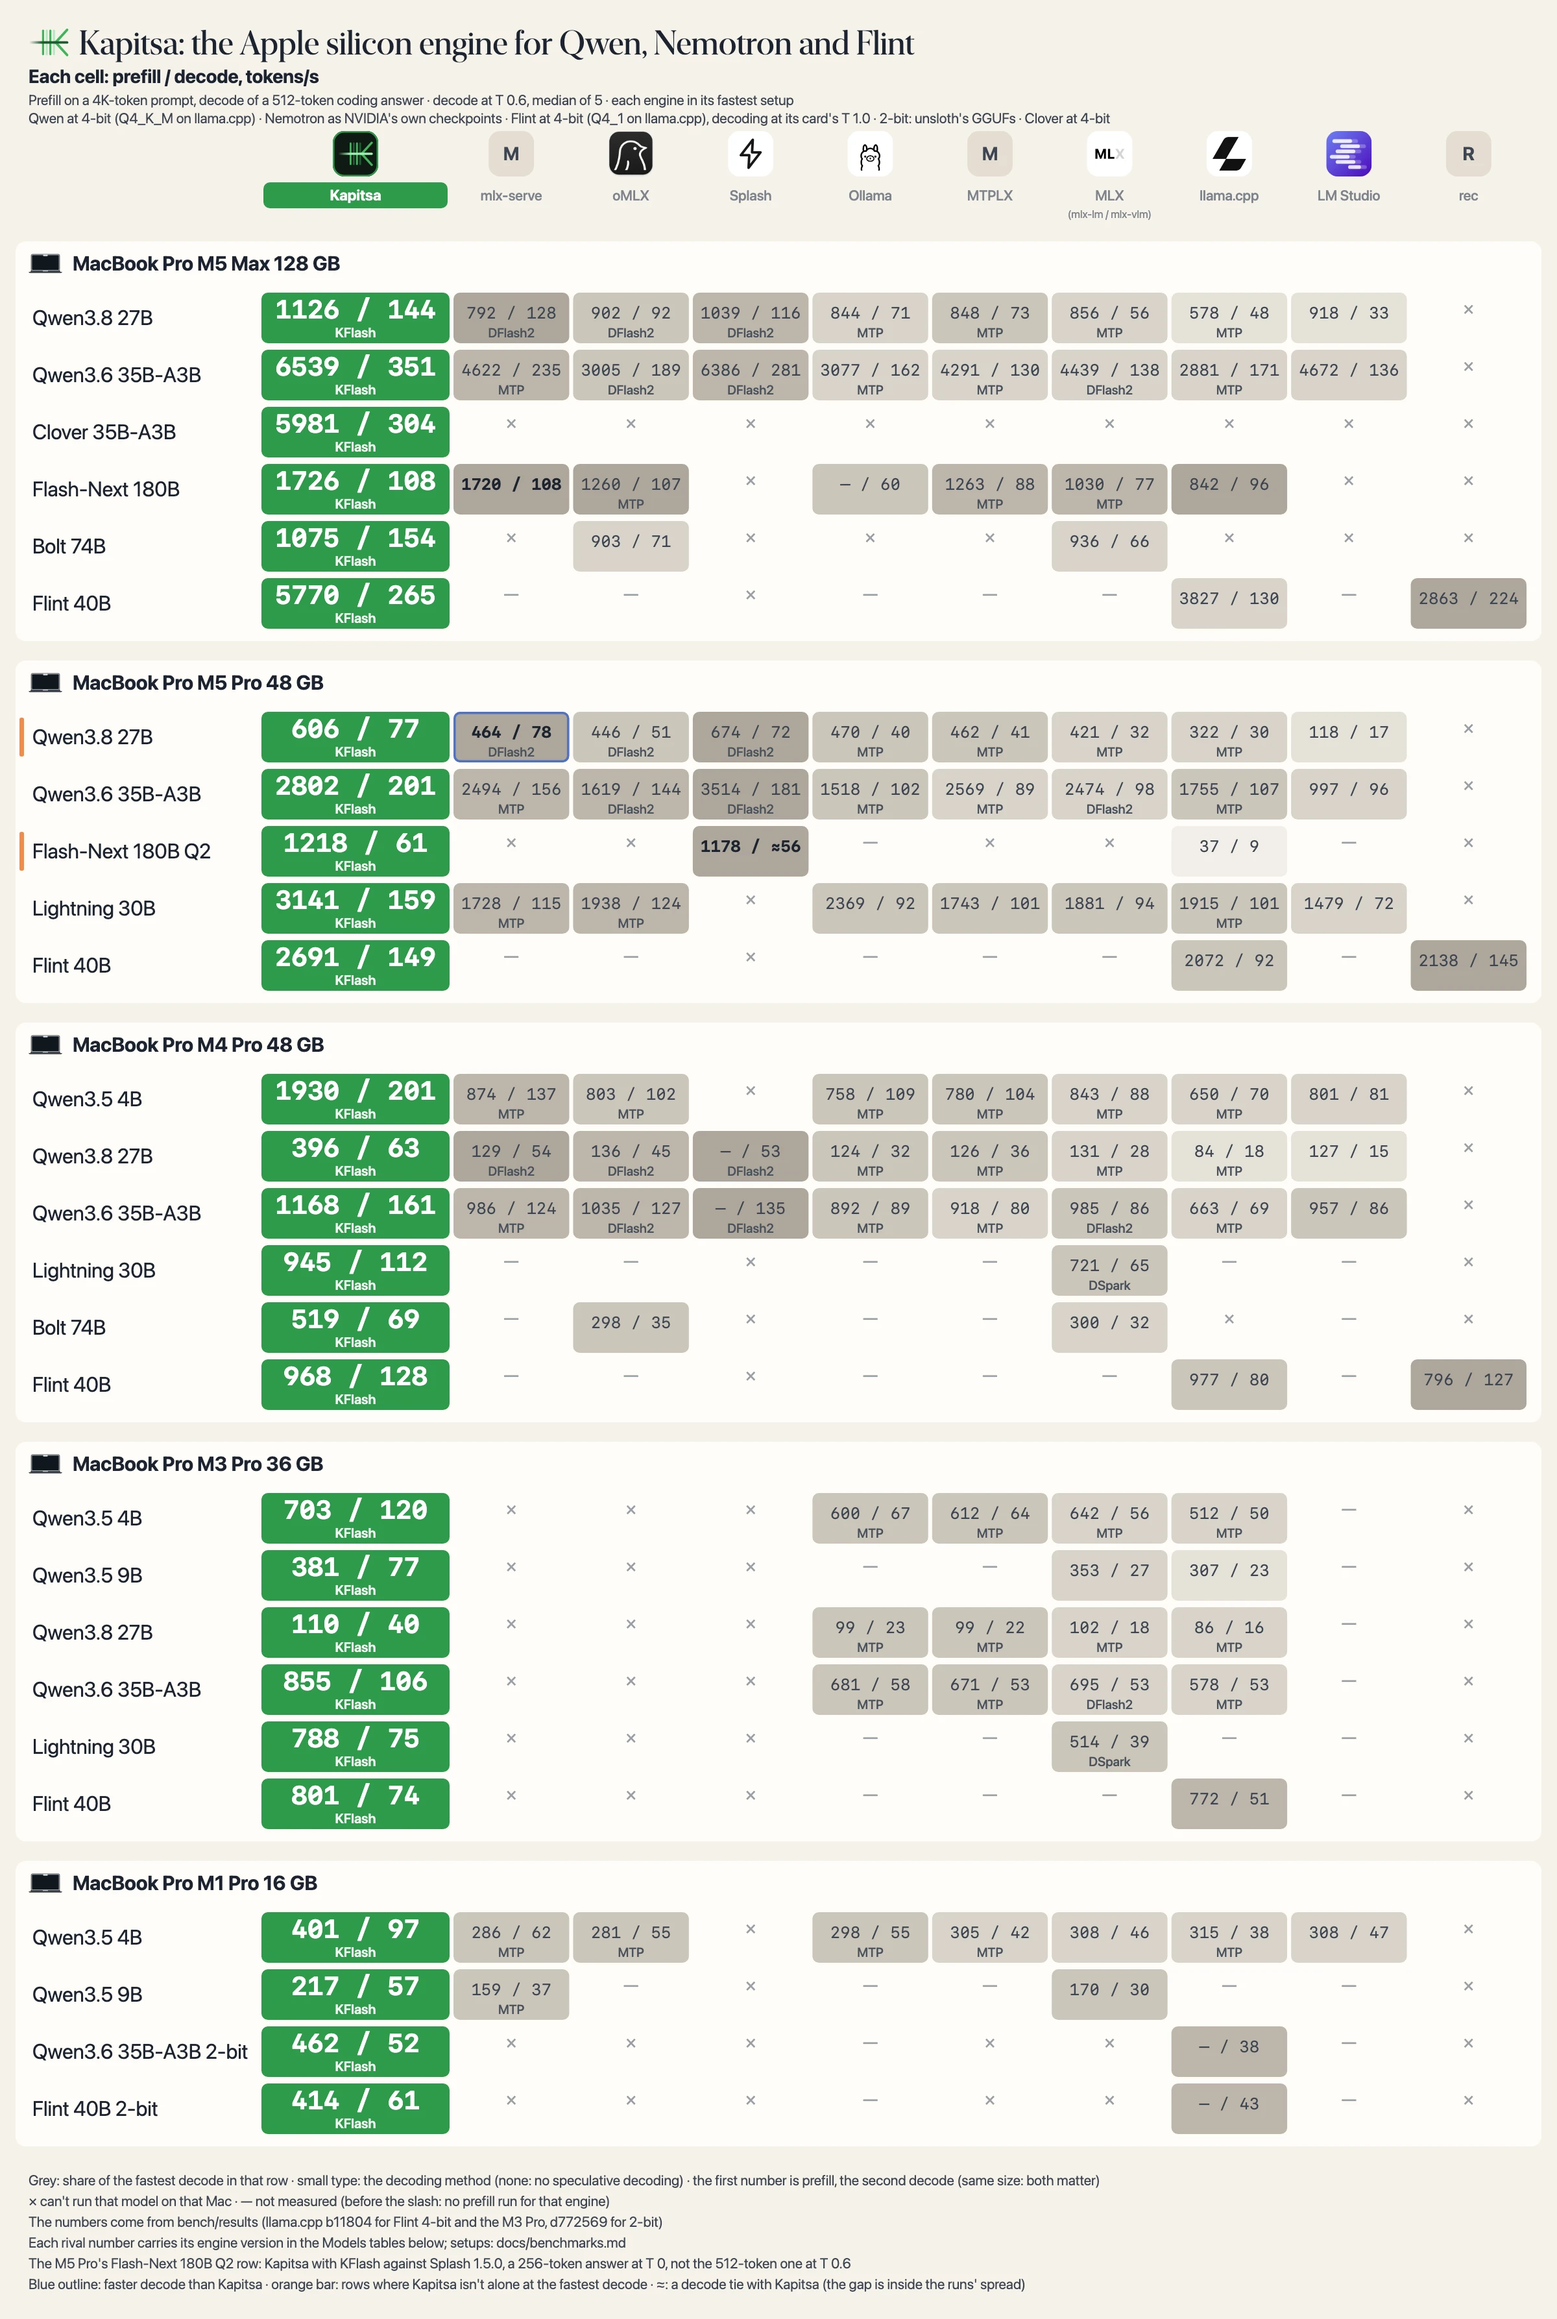
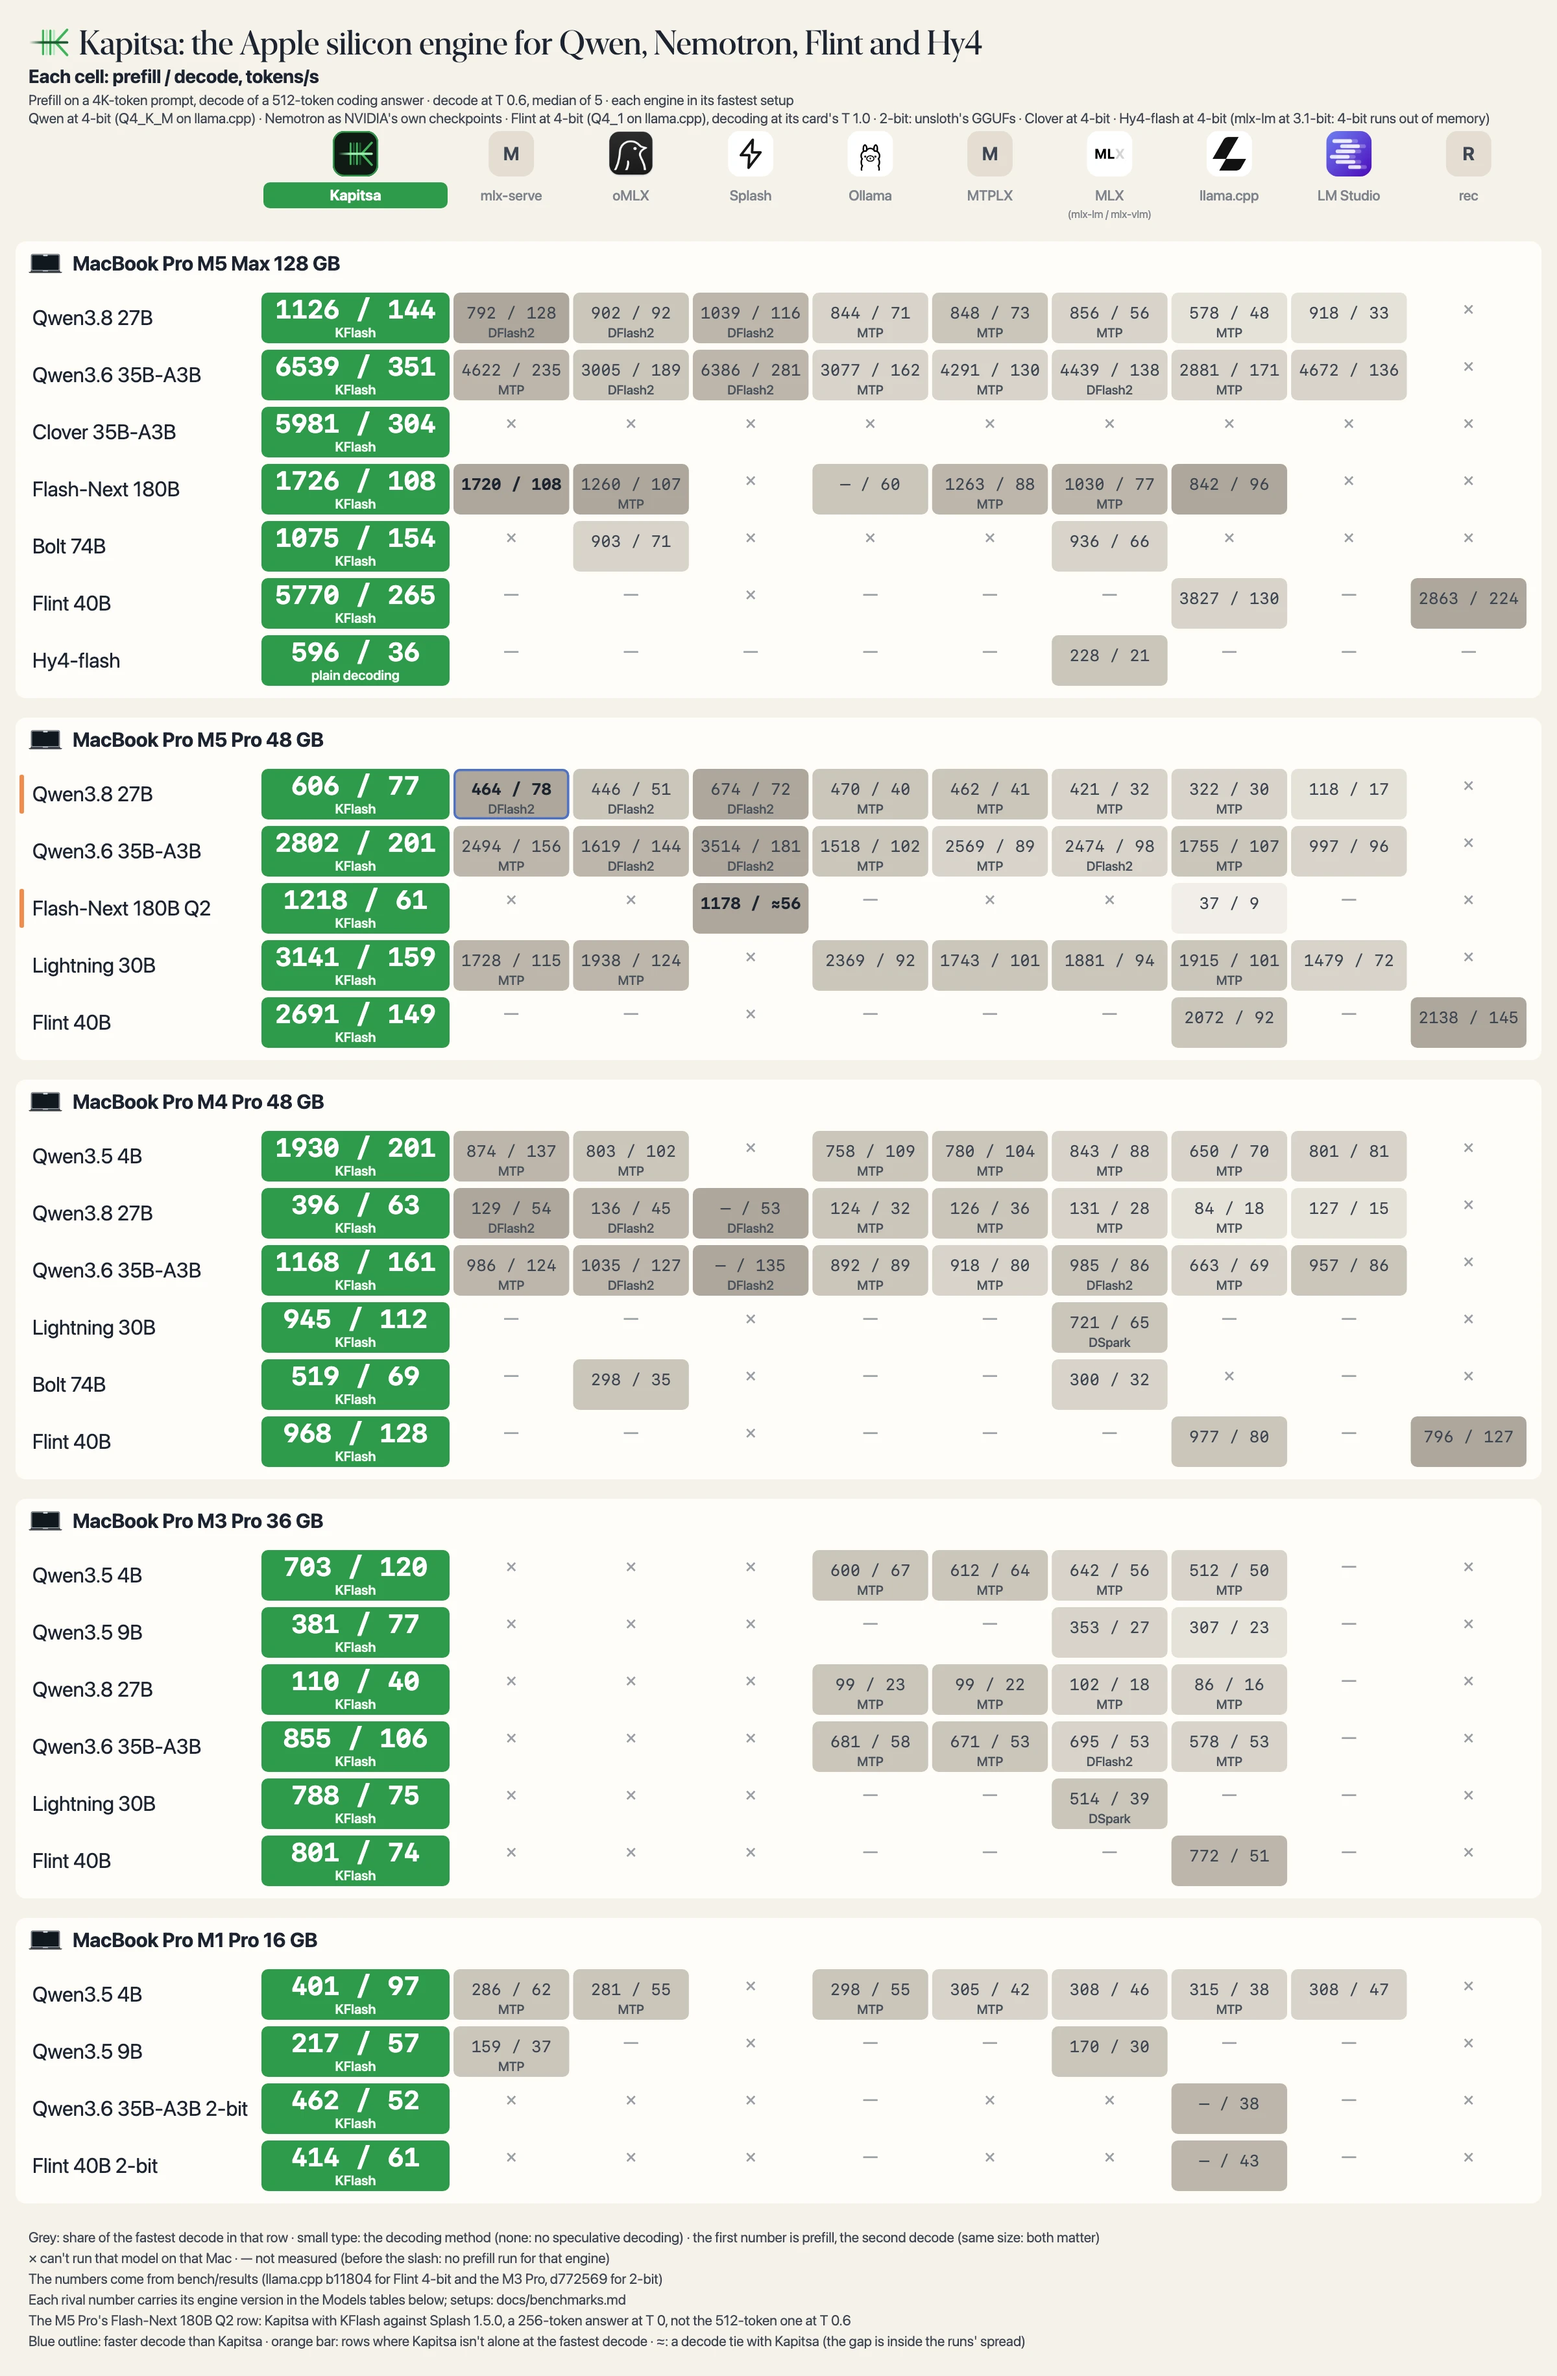
README: Hy4-flash against mlx-lm on the M5 Max, decode 36 vs 21 tok/s short and 34.6 vs 4.4 at 32K (mlx-lm on the 3.1-bit pack: the 4-bit one runs out of memory) (docs and data only) (#1365)
* README: Hy4-flash against mlx-lm on the M5 Max, decode 36 vs 21 tok/s short and 34.6 vs 4.4 at 32K (mlx-lm on the 3.1-bit pack: the 4-bit one runs out of memory) (docs and data only)

Same Mac, same prompts (a short coding question, then 4K, 16K and 32K corpus tokens), thinking off, T 0.6, each
engine alone and cold. Kapitsa (4-bit pack, b5536ba8) from its server log; mlx-lm 0.32.2 (MLX 0.32.4) from
stream_generate's rates. mlx-lm can't run the 4-bit pack on this 128 GB Mac (Metal: Insufficient Memory), so it ran
nace-ai/Hy4-flash-MLX-3.1bit. Prefill / decode, tok/s: short 209 / 36.4 (fast 225 / 35.9) vs 125 / 20.8; 4K 657 / 35.2
(fast 968 / 34.9) vs 228 / 13.2; 16K 699 / 35.1 (971 / 34.1) vs 300 / 7.0; 32K 677 / 34.6 (971 / 34.8) vs 304 / 4.4.
The README's Hy4-flash row gains the mlx-lm cell (228 / 21, labelled with its pack), the results folder the data.

* README: Hy4-flash in What's new (36 tok/s on a 128 GB M5 Max, 35 at 32K; mlx-lm's 21 and 4.4 on the 3.1-bit pack)

* README poster: Hy4-flash's M5 Max row (596 / 36 tok/s, mlx-lm 228 / 21 on its 3.1-bit pack), title and subtitle name Hy4

The row moves from the M5 Max table section to the poster's, so it is drawn on the poster as well as in the README's
table; the engines that did not run it show a dash (not measured). docs/assets/benchmarks-{dark,light}.webp
re-rendered by readme_images.py --poster.
[…]

diff --git a/README.md b/README.md
@@ -27,6 +27,7 @@ kapitsa opencode --model 35b    # also: claude, codex, pi
 
 ## 🔥 What's new
 
+- [2026/11] 🐉 **Tencent's Hy4-flash runs on a 128 GB M5 Max at 36 tok/s, and still 35 tok/s at 32K context**: mlx-lm runs out of memory on the same 4-bit weights on that Mac, and on the 3.1-bit pack it decodes at 21 tok/s short and 4.4 at 32K; prefill 970 tok/s with `--profile fast` (`kapitsa serve --model <the Hy4-flash folder>`; [numbers](bench/results/2026-11-20-m5-max-hy4/README.md#against-mlx-lm), [how](docs/usage.md#other-models)).
 - [2026/11] 🎯 **Nace quants: the 4B, 9B, 27B and 35B-A3B downloads are closer to the original model than the packs they replace, at the same size** ([numbers](#nace-quants)).
 - [2026/11] ⚡ **Qwen3.8-Flash-Next 180B writes 6% faster on an M5 Max**, with the same tokens: greedy decode 107.3 → 113.9 tok/s after three verify-kernel changes ([numbers](bench/results/2026-11-04-m5-max-flash-next/README.md)).
 - [2026/10] 🍀 **DiffuSpace's Clover-35B-A3B, a block-diffusion MoE, writes at 304 tok/s on an M5 Max**: `kapitsa serve --model clover` ([numbers](docs/benchmarks.md#diffuspace-clover-35b-a3b-m5-max-2026-10-28), [how](docs/usage.md#other-models)).
@@ -207,11 +208,11 @@ The catalog models measured on each Mac, against the engines that run them: one 
 
 **Tencent Hy4-flash**
 
-| Model | <mark>**Kapitsa**</mark> |
-| --- | ---: |
-| **Hy4-flash**<br><sub>MoE, 512 experts, top-16 · 8-bit trunk, 4-bit experts, 133.8 GB with its Engram tables (`nace-ai/Hy4-flash-MLX-4bit`, a model folder: not in the catalog)</sub> | 🟩 596 / **36**<br><sub>plain decoding</sub> |
+| Model | <mark>**Kapitsa**</mark> | <sub>MLX<br>(mlx-lm / mlx-vlm)</sub> |
+| --- | ---: | ---: |
+| **Hy4-flash**<br><sub>MoE, 512 experts, top-16 · 8-bit trunk, 4-bit experts, 133.8 GB with its Engram tables (`nace-ai/Hy4-flash-MLX-4bit`, a model folder: not in the catalog)</sub> | 🟩 596 / **36**<br><sub>plain decoding</sub> | 228 / 21<br><sub>3.1-bit pack (the 4-bit one runs out of memory) · mlx-lm 0.32.2</sub> |
 
-<sub>Kapitsa's cells are the 2026-11-01 runs (main 7f4e709, [results](bench/results/2026-11-01-m5-max-kapitsa/README.md)), each the median of three runs (Super-VL five) on AC power in High Power mode, Clover's in [its own folder](bench/results/2026-11-01-m5-max-clover/README.md), Flash-Next's a 2026-11-04 re-run on main af7d795 after #921, #922 and #923, three runs the same way, greedy 113.9 against 107.3 on 2026-11-01 ([results](bench/results/2026-11-04-m5-max-flash-next/README.md)), and the 27B's a 2026-11-05 re-run on 7afb51d (the tree of main 87d7dd5: 0.2.29 with #964, #969 and #970), three runs the same way ([results](bench/results/2026-11-05-m5-max-qwen-cells-87d7dd5/README.md)), and the 35B-A3B's a re-run on main 39f20c8 after #975 (its GPU prefill wavefront), three runs the same way ([results](bench/results/2026-11-05-m5-max-35b-cell-39f20c8/README.md)). The other engines' 27B, 35B-A3B and Bolt cells are the 2026-10-25 session (each engine's latest release, macOS 26.4); llama.cpp's 35B-A3B cell and the other engines' Flash-Next, Lightning, Super-VL and Dory cells are the 2026-10-18 runs, not yet re-measured; rec's and llama.cpp's Flint cells are one block on 2026-10-26 ([results](bench/results/2026-10-26-m5-max/README.md)). The build each cell ran is under its number; details in [bench/results/2026-10-25-m5-max](bench/results/2026-10-25-m5-max/README.md) and [its re-runs](bench/results/2026-10-25-m5-max/2026-10-26-reruns.md). Hy4-flash's cell is one `kapitsa bench` run on fearampgreed's MacBook Pro on the default profile, on 2026-11-20 at 21c5d9ce, #1360's head before its review commit (which changed only the expert store's sizing; on this Mac it still takes every expert) ([results](bench/results/2026-11-20-m5-max-hy4/README.md)).</sub>
+<sub>Kapitsa's cells are the 2026-11-01 runs (main 7f4e709, [results](bench/results/2026-11-01-m5-max-kapitsa/README.md)), each the median of three runs (Super-VL five) on AC power in High Power mode, Clover's in [its own folder](bench/results/2026-11-01-m5-max-clover/README.md), Flash-Next's a 2026-11-04 re-run on main af7d795 after #921, #922 and #923, three runs the same way, greedy 113.9 against 107.3 on 2026-11-01 ([results](bench/results/2026-11-04-m5-max-flash-next/README.md)), and the 27B's a 2026-11-05 re-run on 7afb51d (the tree of main 87d7dd5: 0.2.29 with #964, #969 and #970), three runs the same way ([results](bench/results/2026-11-05-m5-max-qwen-cells-87d7dd5/README.md)), and the 35B-A3B's a re-run on main 39f20c8 after #975 (its GPU prefill wavefront), three runs the same way ([results](bench/results/2026-11-05-m5-max-35b-cell-39f20c8/README.md)). The other engines' 27B, 35B-A3B and Bolt cells are the 2026-10-25 session (each engine's latest release, macOS 26.4); llama.cpp's 35B-A3B cell and the other engines' Flash-Next, Lightning, Super-VL and Dory cells are the 2026-10-18 runs, not yet re-measured; rec's and llama.cpp's Flint cells are one block on 2026-10-26 ([results](bench/results/2026-10-26-m5-max/README.md)). The build each cell ran is under its number; details in [bench/results/2026-10-25-m5-max](bench/results/2026-10-25-m5-max/README.md) and [its re-runs](bench/results/2026-10-25-m5-max/2026-10-26-reruns.md). Hy4-flash's cell is one `kapitsa bench` run on fearampgreed's MacBook Pro on the default profile, on 2026-11-20 at 21c5d9ce, #1360's head before its review commit (which changed only the expert store's sizing; on this Mac it still takes every expert) ([results](bench/results/2026-11-20-m5-max-hy4/README.md)); its mlx-lm cell is the 3.1-bit pack on 2026-11-20, one run, since mlx-lm runs out of memory on the 4-bit pack on this Mac ([head-to-head](bench/results/2026-11-20-m5-max-hy4/README.md#against-mlx-lm)).</sub>
 
 </details>
 

diff --git a/bench/results/2026-11-20-m5-max-hy4/README.md b/bench/results/2026-11-20-m5-max-hy4/README.md
@@ -33,3 +33,29 @@ The same Mac and pack on the same day:
 
 Each row is one run of `kapitsa bench`; the rows are not an interleaved comparison. #1360's interleaved A B A B is in
 its pull request: decode 25.35 / 25.53 -> 36.69 / 36.73 tok/s, with the logits bitwise the same.
+
+## Against mlx-lm
+
+`head-to-head-mlx.json`, 2026-11-20, the same Mac. Both engines got the same prompts: a short coding question (512
+tokens out), then the first 4K, 16K and 32K tokens of `bench/corpus.txt` with a request to summarize (256 tokens out).
+Thinking was off (`reasoning_effort` `no_think`), temperature 0.6, top-p 0.95. Every prompt was cold, and each engine
+ran alone under the GPU lock.
+
+- **Kapitsa:** at b5536ba8 (#1361's head, merged as 179c099f) on the 4-bit pack, timed by its server log (every
+  prefill pass, then the decode rate).
+- **mlx-lm 0.32.2** (MLX 0.32.4), timed by `stream_generate`'s own rates. On the 4-bit pack it does not run on this
+  Mac: it warns the model "requires 126731 MB which is close to the maximum recommended size of 110100 MB", then
+  fails with Metal's "Insufficient Memory". So mlx-lm ran the 3.1-bit pack (`nace-ai/Hy4-flash-MLX-3.1bit`, 85.5 GB,
+  3.12 effective bits a weight) through that pack's own `run_mlx.load()`.
+
+| prompt | Kapitsa 4-bit, precise: prefill / decode | Kapitsa 4-bit, fast profile | mlx-lm, 3.1-bit pack |
+| --- | --- | --- | --- |
+| short (~50 tokens) | 209 / 36.4 tok/s | 225 / 35.9 | 125 / 20.8 |
+| 4K | 657 / 35.2 | 968 / 34.9 | 228 / 13.2 |
+| 16K | 699 / 35.1 | 971 / 34.1 | 300 / 7.0 |
+| 32K | 677 / 34.6 | 971 / 34.8 | 304 / 4.4 |
+
+Peak memory: Kapitsa 88 GB with every 4-bit expert in memory (the `kapitsa bench` run at 21c5d9ce above; the
+head-to-head did not record Kapitsa's peak), the Engram tables read from their mapped files on the CPU; mlx-lm 64 GB at the short prompt and 100 GB at 32K on the 3.1-bit pack.
+
+These are one run of each, not interleaved. mlx-lm's timers and Kapitsa's server log measure the same two phases.
